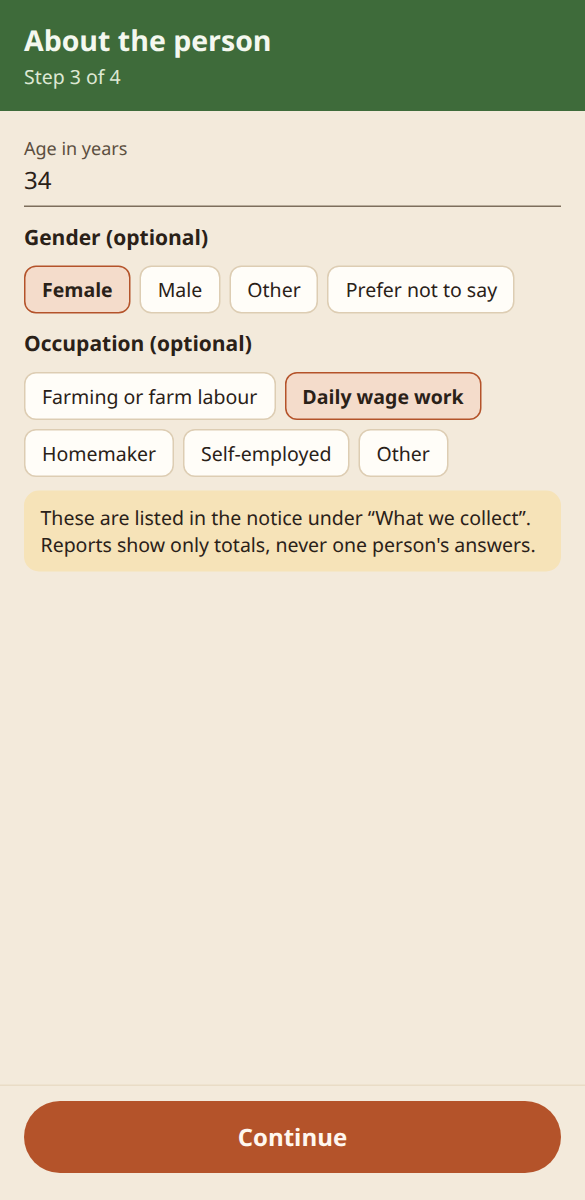
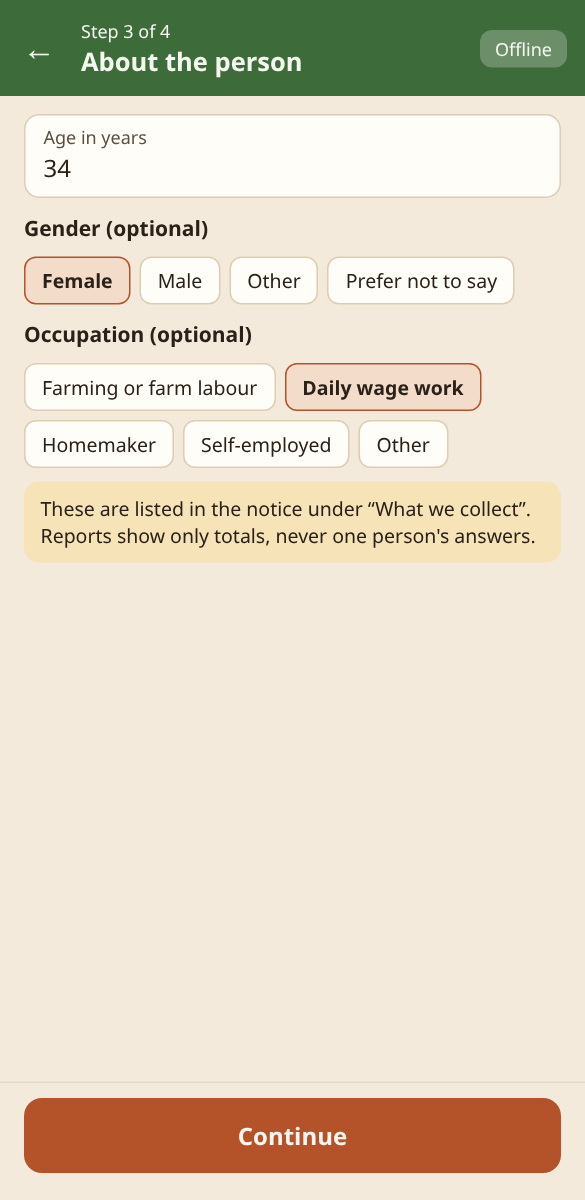
Guide wireframes: catch up with the field app (app bar, Home, receipt, add-a-use wording) and add missing screens
- App bar as StepBar draws it (back arrow, subtitle above title, Offline/Synced chip); outlined inputs; 12px buttons.
- Home: programme above the greeting, sync box in the header; Find's new subtitle.
- Receipt: Refused row, how to withdraw, SMS hint. Parent/guardian: plain after-Save line, guardian ID photo.
- Withdraw and journeys: Other requests as the app lists them; beneficiary IDs in the AC-XXXXXXXX format.
- Journey 5: status chips and 'Already agreed — not asked again' as in the app; the person card; Send code panel.
- New: m1-sign-in, m2-set-pin, m3-unlock, d1-who-guardian, a6-notice-phone-voice, k1-find, k2-sync-issues.

Claude-Session: https://claude.ai/code/session_017Z4JUt4pZ6ieTbEzXJ7HAA

diff --git a/tools/guide_wireframes.py b/tools/guide_wireframes.py
@@ -17,8 +17,15 @@ CSS = """
 *{box-sizing:border-box}
 body{margin:0;font-family:'Noto Sans','Noto Sans Devanagari',sans-serif;color:#2A2118;background:#F3EADB}
 .phone{width:390px;height:800px;position:relative;overflow:hidden;background:#F3EADB}
-.bar{background:#3E6B3A;color:#F4F8EF;padding:14px 16px}.bar h1{margin:0;font-size:19px;font-weight:600}
-.bar p{margin:2px 0 0;font-size:13px;color:#DDE8D3}
+.bar{background:#3E6B3A;color:#F4F8EF;height:64px;padding:0 12px 0 6px;display:flex;align-items:center;gap:8px}
+.bar .bk{width:40px;text-align:center;font-size:22px}.bar .tt{flex:1;min-width:0}
+.bar h1{margin:0;font-size:17px;font-weight:600;white-space:nowrap;overflow:hidden;text-overflow:ellipsis}
+.bar p{margin:0;font-size:12px;color:#F4F8EF}
+.bar .chipb{font-size:12px;padding:4px 10px;border-radius:8px;background:rgba(255,255,255,.24)}
+.hero{background:#3E6B3A;color:#F4F8EF;padding:16px 8px 16px 16px}
+.hero .pg{font-size:12px}.hero .hi{font-size:24px;font-weight:600;display:flex;justify-content:space-between;align-items:center}
+.hero .sbox{margin:12px 8px 0 0;padding:12px;border-radius:12px;background:rgba(255,255,255,.14);display:flex;align-items:center;gap:10px}
+.hero .sync{background:#F4F8EF;color:#3E6B3A;border-radius:12px;padding:9px 14px;font-size:14px;font-weight:600;white-space:nowrap}
 .body{padding:12px 16px;display:flex;flex-direction:column;gap:9px}
 .muted{font-size:13px;color:#5C4F40}
 .note{font-size:13px;padding:9px 11px;border-radius:10px;background:#F6E3B8;color:#2A2118}
@@ -29,8 +36,8 @@ body{margin:0;font-family:'Noto Sans','Noto Sans Devanagari',sans-serif;color:#2
 .opt.on{border-color:#B4532A;background:#F9EBE1}
 .dot{width:16px;height:16px;border-radius:8px;border:2px solid #7D6E5C;flex-shrink:0}
 .opt.on .dot{border-color:#B4532A;background:radial-gradient(#B4532A 45%,transparent 50%)}
-.field{display:flex;flex-direction:column;gap:2px;border-bottom:1px solid #7D6E5C;padding:4px 0 6px}
-.field span{font-size:12px;color:#5C4F40}.field b{font-size:16px;font-weight:400}
+.field{display:flex;flex-direction:column;gap:1px;background:#FFFDF8;border:1px solid #DDCDB3;border-radius:10px;padding:6px 12px 8px}
+.field span{font-size:12px;color:#5C4F40}.field b{font-size:16px;font-weight:400;min-height:20px}
 .help{font-size:11.5px;color:#5C4F40}
 .row{display:flex;align-items:center;justify-content:space-between;gap:8px;font-size:14px;font-weight:600}
 .seg{display:flex;border:1px solid #7D6E5C;border-radius:18px;overflow:hidden;font-weight:400}
@@ -41,7 +48,7 @@ body{margin:0;font-family:'Noto Sans','Noto Sans Devanagari',sans-serif;color:#2
 .tile{display:flex;align-items:center;gap:10px;padding:11px 12px;background:#FFFDF8;border:1px solid #E9DCC6;border-radius:12px;font-size:14px}
 .ic{width:22px;height:22px;border-radius:6px;background:#DDE8D3;color:#3E6B3A;display:flex;align-items:center;justify-content:center;font-size:13px;font-weight:700;flex-shrink:0}
 .st{margin-left:auto;font-size:12px;padding:2px 9px;border-radius:10px;background:#EADFCB;color:#5C4F40;white-space:nowrap}
-.st.ok{background:#DDE8D3;color:#3E6B3A}.st.bad{background:#F4D6CF;color:#9E2F24}
+.st.ok{background:#DDE8D3;color:#3E6B3A}.st.warn{background:#F6E3B8;color:#9A6A10}.st.bad{background:#F4D6CF;color:#9E2F24}
 .grp{border:1.5px solid #B4532A;border-radius:14px;padding:10px;display:flex;flex-direction:column;gap:8px}
 .grp.done{border-color:#3E6B3A}
 .p{display:flex;align-items:center;gap:10px;padding:9px 12px;background:#FFFDF8;border:1px solid #E9DCC6;border-radius:12px}
@@ -53,26 +60,45 @@ body{margin:0;font-family:'Noto Sans','Noto Sans Devanagari',sans-serif;color:#2
 .play{width:44px;height:44px;border-radius:22px;background:#3E6B3A;color:#F4F8EF;display:flex;align-items:center;justify-content:center;flex-shrink:0;font-size:18px}
 .track{height:4px;background:#3E6B3A;border-radius:2px;margin-top:6px}
 .ai{font-size:12px;font-weight:600;color:#3E6B3A}
-.two{display:flex;gap:8px}.two span{flex:1;text-align:center;font-size:14px;padding:8px;border:1px solid #7D6E5C;border-radius:20px}
+.two{display:flex;gap:8px}.two span{flex:1;text-align:center;font-size:15px;font-weight:600;padding:11px 8px;border:1.5px solid #B4532A;color:#B4532A;border-radius:12px}
+.two span.on{background:#B4532A;color:#FFF7EF}.two.off span{border-color:#DDCDB3;color:#7D6E5C}
 .check{display:flex;gap:10px;align-items:flex-start;padding:10px 12px;background:#FFFDF8;border:1px solid #E9DCC6;border-radius:12px;font-size:13.5px}
 .box{width:18px;height:18px;border-radius:4px;border:2px solid #7D6E5C;flex-shrink:0;margin-top:1px}
 .box.on{background:#3E6B3A;border-color:#3E6B3A}
 .code{font-family:monospace;font-size:28px;letter-spacing:3px;text-align:center}
-.otp{font-size:22px;letter-spacing:8px;text-align:center;border-bottom:1px solid #7D6E5C;padding:4px}
-.out{text-align:center;font-size:14px;padding:9px;border:1px solid #7D6E5C;border-radius:20px}
+.otp{font-size:22px;letter-spacing:8px;text-align:center;background:#FFFDF8;border:1px solid #DDCDB3;border-radius:10px;padding:6px}
+.out{text-align:center;font-size:15px;font-weight:600;padding:11px;border:1.5px solid #B4532A;color:#B4532A;border-radius:12px}
 .link{font-size:13px;color:#3E6B3A;font-weight:600;text-decoration:underline}
 .foot{position:absolute;left:0;right:0;bottom:0;padding:10px 16px 18px;background:#F3EADB;border-top:1px solid #E9DCC6;display:flex;flex-direction:column;gap:6px}
 .miss{font-size:13px;color:#9E2F24;text-align:center}
-.cta{text-align:center;font-size:16px;font-weight:600;padding:13px;border-radius:24px;background:#B4532A;color:#FFF7EF}
+.cta{text-align:center;font-size:16px;font-weight:600;padding:14px;border-radius:12px;background:#B4532A;color:#FFF7EF}
 .cta.off{background:#DDCDB3;color:#7D6E5C}
-.sec{text-align:center;font-size:15px;padding:11px;border:1px solid #7D6E5C;border-radius:24px}
+.sec{text-align:center;font-size:16px;font-weight:600;padding:12px;border:1.5px solid #B4532A;color:#B4532A;border-radius:12px}
+.fill{text-align:center;font-size:15px;font-weight:600;padding:11px;border-radius:12px;background:#B4532A;color:#FFF7EF}
+.dlg{position:absolute;left:24px;right:24px;top:220px;background:#FFFDF8;border-radius:20px;padding:20px;display:flex;flex-direction:column;gap:12px;box-shadow:0 8px 30px rgba(0,0,0,.25)}
+.dlg .h1{font-size:19px;font-weight:600}
+.dim{opacity:.35}
+.toast{position:absolute;left:20px;right:20px;bottom:110px;background:#2A2118;color:#FFF7EF;border-radius:10px;padding:12px 14px;font-size:14px}
+.sheet{position:absolute;left:0;right:0;bottom:0;background:#FFFDF8;border-radius:18px 18px 0 0;padding:16px;box-shadow:0 -6px 24px rgba(0,0,0,.18);display:flex;flex-direction:column;gap:12px}
+.pin{display:flex;justify-content:center;gap:16px}.pin span{width:16px;height:16px;border-radius:8px;border:2px solid #B4532A}.pin span.on{background:#B4532A}
+.keys{display:grid;grid-template-columns:repeat(3,1fr);row-gap:10px;text-align:center;font-size:26px;padding:0 24px}
 .big{display:flex;flex-direction:column;align-items:center;gap:4px;padding:6px 0}
 .tick{width:56px;height:56px;border-radius:28px;background:#DDE8D3;color:#3E6B3A;display:flex;align-items:center;justify-content:center;font-size:28px}
 """
 
 
-def bar(title, sub=""):
-    return f'<div class="bar"><h1>{title}</h1>{f"<p>{sub}</p>" if sub else ""}</div>'
+def bar(title, sub="", back=True, chip="Offline"):
+    """The app bar (StepBar): back arrow, subtitle above the title, and the Offline / Synced chip."""
+    return (f'<div class="bar"><span class="bk">{"←" if back else ""}</span><div class="tt">{f"<p>{sub}</p>" if sub else ""}'
+            f'<h1>{title}</h1></div>{f"<span class=chipb>{chip}</span>" if chip else ""}</div>')
+
+
+def home_head(n=3):
+    """Home's own header: programme, greeting, and the sync box."""
+    sub = "Sync when you have data" if n else "Everything is signed on the server"
+    return (f'<div class="hero"><div class="pg">Village Health Camps</div><div class="hi">Namaste, Ravi<span style="font-size:20px">⋮</span></div>'
+            f'<div class="sbox"><div style="flex:1"><div style="font-weight:600">{n} records on this phone</div>'
+            f'<div style="font-size:12px">{sub}</div></div><span class="sync">⟳ Sync</span></div></div>')
 
 
 def foot(label, missing="", off=False, second=""):
@@ -114,13 +140,12 @@ def purpose(title, desc, on=None):
 
 
 SCREENS = {
-    "home": bar("Namaste, Ravi", "Village Health Camps") + """<div class="body">
-<div class="card"><div class="row">3 records on this phone<span class="st">Sync</span></div><div class="muted">Sync when you have data</div></div>
+    "home": home_head() + """<div class="body">
 <div class="muted">Programme</div><div class="card" style="flex-direction:row;justify-content:space-between"><span>Village Health Camps</span><span style="color:#B4532A;font-size:13px">Change</span></div>
 <div class="tile"><span class="ic">+</span><div><div class="t">Take new consent</div><div class="d">Self, assisted or guardian</div></div></div>
 <div class="tile"><span class="ic">×</span><div><div class="t">Stop a use or leave</div><div class="d">In person, slip or letter</div></div></div>
-<div class="tile"><span class="ic">↺</span><div><div class="t">Add a use or rejoin</div><div class="d">A new use, a change of mind, or rejoining</div></div></div>
-<div class="tile"><span class="ic">⌕</span><div><div class="t">Find beneficiary</div><div class="d">See consent status offline</div></div></div>
+<div class="tile"><span class="ic">＋</span><div><div class="t">Add a use or rejoin</div><div class="d">A new use, a change of mind, or rejoining</div></div></div>
+<div class="tile"><span class="ic">⌕</span><div><div class="t">Find beneficiary</div><div class="d">Status offline; stop or add a use</div></div></div>
 </div>""",
     "a1-who": bar("Who is giving consent?", "Step 1 of 3") + f"""<div class="body">{who("self")}
 <div class="field"><span>Name</span><b>Sunita Devi (sample)</b></div>
@@ -141,13 +166,14 @@ SCREENS = {
 <div class="card"><b>Sunita Devi (sample) · English</b><div class="muted">Agreed: Health screening, Follow-up calls</div><div class="muted">Refused: Photos and stories, Anonymised research</div></div>
 <div class="note">After Save, you can send a code to their phone from the server. They read it out to confirm.</div>
 <div class="muted">No witness: they read the notice themselves.</div>{ATTEST}</div>""" + foot("Save"),
-    "a4-receipt-code": bar("Saved on this phone", "DEMO") + """<div class="body">
+    "a4-receipt-code": bar("Saved on this phone", "DEMO", back=False) + """<div class="body">
 <div class="big"><div class="tick">✓</div><div class="t" style="font-size:20px">Saved on this phone</div><div class="muted">Signed and chained when this phone syncs</div></div>
 <div class="card" style="border:1.5px solid #D9A285"><div class="muted" style="text-align:center">Consent code — write it on their slip</div><div class="code">AN-7K2Q9C</div></div>
-<div class="card"><div class="row" style="font-weight:400"><span class="d">Sunita Devi (sample)</span><span>English</span></div><div class="row" style="font-weight:400"><span class="d">Granted</span><span>Health screening, Follow-up calls</span></div><div class="row" style="font-weight:400"><span class="d">Verified by</span><span>Code from the server (below)</span></div></div>
+<div class="card"><div class="row" style="font-weight:400"><span class="d">Sunita Devi (sample)</span><span>English</span></div><div class="row" style="font-weight:400"><span class="d">Granted</span><span>Health screening, Follow-up calls</span></div><div class="row" style="font-weight:400"><span class="d">Refused</span><span>Photos and stories, Anonymised research</span></div><div class="row" style="font-weight:400"><span class="d">Verified by</span><span>Code from the server (below)</span></div></div>
 <div class="grp done"><div class="t">Confirm with a code to their phone</div><div class="muted">The code is sent by the server, not from this phone. They read it out to you.</div>
 <div class="muted">Code sent to 9000012XXX. Ask them to read it out.</div><div class="otp">4 8 1 _ _ _</div><div class="link">Send a new code</div></div>
-<div class="out">Send receipt by SMS</div></div>""" + foot("Done — next beneficiary"),
+<div class="card">Tell them: SMS STOP with this code, a missed call, or tell any worker to withdraw.</div>
+<div class="out">✉ Send receipt by SMS</div><div class="muted" style="text-align:center">Opens your SMS app with their receipt. You tap Send.</div></div>""" + foot("Done — next beneficiary"),
     "a5-confirm-offline": bar("Confirm and save", "Step 3 of 3") + f"""<div class="body">
 <div class="card"><b>Sunita Devi (sample) · English</b><div class="muted">Agreed: Health screening, Follow-up calls</div></div>
 <div class="grp"><div class="row">Check their phone · both needed<span class="st bad">0 of 1</span></div>
@@ -193,7 +219,7 @@ SCREENS = {
 <div class="muted">Who is consenting?</div><div class="chips"><span class="chip on">Mother</span><span class="chip">Father</span><span class="chip">Other guardian</span></div>
 <div class="field"><span>Parent's name</span><b>Meena Kumari (sample)</b></div>
 <div class="field"><span>Parent's mobile</span><b>90000 67890</b></div>
-<div class="note">After Save, a code is sent to this number from the server. They read it out to confirm.</div>
+<div class="muted">After Save, a code is sent to this number from the server. They read it out to confirm.</div>
 <div class="tile"><span class="ic">📷</span>Photo of the parent's ID (optional)<span class="st">Tap to capture</span></div></div>""" + foot("Continue"),
     "c3-notice-save": bar("Notice and choices", "Step 3 of 3") + f"""<div class="body">{PLAYER}
 <div class="h">Choose for each use</div>
@@ -218,10 +244,11 @@ SCREENS = {
 <div class="muted">Relation</div><div class="chips"><span class="chip">Parent</span><span class="chip on">Brother / sister</span><span class="chip">Spouse</span><span class="chip">Other</span></div>
 <div class="field"><span>Guardian's name</span><b>Suresh Kumar (sample)</b></div>
 <div class="field"><span>Guardian's mobile</span><b>90000 24680</b></div>
-<div class="note">After Save, a code is sent to this number from the server. They read it out to confirm.</div></div>""" + foot("Continue"),
+<div class="muted">After Save, a code is sent to this number from the server. They read it out to confirm.</div>
+<div class="tile"><span class="ic">📷</span>Photo of the guardian's ID (optional)<span class="st">Tap to capture</span></div></div>""" + foot("Continue"),
     "d3-no-order": bar("Guardian's details", "Step 2 of 3") + """<div class="body">
 <div class="muted">Guardian appointed by</div><div class="chips"><span class="chip">Local Level Committee</span><span class="chip">Court</span><span class="chip">Other authority</span><span class="chip on">No order yet</span></div>
-<div class="card" style="border:2px solid #B4532A;gap:8px"><div class="t" style="color:#9E2F24;font-size:17px">Consent can't be taken yet</div>
+<div class="card" style="border:1.5px solid #B4532A;gap:8px"><div class="t" style="color:#9E2F24;font-size:17px">Consent can't be taken yet</div>
 <div>For an adult who can't decide alone, only a guardian appointed by a court or the Local Level Committee can give consent.</div>
 <div>The family can apply to the Local Level Committee (National Trust) or a court. The person can still be helped today; their data just isn't recorded under consent.</div></div>
 <div class="muted">Nothing is saved. Your coordinator gets a note to follow up, without the person's details.</div></div>""" + foot("Inform coordinator", second="Back"),
@@ -231,18 +258,19 @@ SCREENS = {
 <div class="h">Occupation (optional)</div><div class="chips"><span class="chip">Farming or farm labour</span><span class="chip on">Daily wage work</span><span class="chip">Homemaker</span><span class="chip">Self-employed</span><span class="chip">Other</span></div>
 <div class="note">These are listed in the notice under “What we collect”. Reports show only totals, never one person's answers.</div></div>""" + foot("Continue"),
     "f1-withdraw": bar("Stop a use or leave", "Withdrawal or request") + """<div class="body">
-<div class="field"><span>Receipt code, name, ID or phone</span><b>AN-7K2Q9C</b></div>
-<div class="card" style="border-color:#B4532A"><b>Sunita Devi (sample)</b><div class="muted">AC-4XK2M9PQ · AN-7K2Q9C</div></div>
+<div class="field"><span>⌕ Receipt code, name, ID or phone</span><b>AN-7K2Q9C</b></div>
+<div class="card" style="border-color:#B4532A"><b>Sunita Devi (sample)</b><div class="muted">AC-6TR2W3HJ · AN-7K2Q9C</div></div>
 <div class="row" style="font-weight:400"><span class="muted">Switch off what they no longer agree to</span><span class="link">Stop all</span></div>
 <div class="p"><div><div class="t">Follow-up calls</div><div class="d" style="color:#9E2F24">Will stop</div></div><span class="sw"></span></div>
 <div class="p"><div><div class="t">Photos and stories</div><div class="d">On</div></div><span class="sw on"></span></div>
 <div class="p req"><div><div class="t">🔒 Health screening</div><div class="d">Needed for the programme. To stop it, they leave the programme.</div></div></div>
 <div class="out" style="color:#9E2F24;border-color:#9E2F24">⎋ Leave the programme</div>
-<div class="muted">Other requests: See or correct my data · Delete my data · Complaint</div>
-<div class="check"><span class="box on"></span><div>They gave a paper slip or letter</div></div>
-<div class="field"><span>Paper slip number (optional)</span><b>SLIP-0042</b></div></div>""" + foot("Stop 1 use for Sunita Devi (sample)"),
+<div class="muted" style="border-top:1px solid #DDCDB3;padding-top:8px">Other requests</div>
+<div class="opt"><span class="dot"></span>See or correct my data</div><div class="opt"><span class="dot"></span>Delete my data</div>
+<div class="opt"><span class="dot"></span>Complaint</div>
+<div class="check"><span class="box on"></span><div>They gave a paper slip or letter</div></div></div>""" + foot("Stop 1 use for Sunita Devi (sample)"),
     "f2-leave": bar("Stop a use or leave", "Withdrawal or request") + """<div class="body" style="opacity:.35">
-<div class="card"><b>Sunita Devi (sample)</b><div class="muted">AC-4XK2M9PQ · AN-7K2Q9C</div></div>
+<div class="card"><b>Sunita Devi (sample)</b><div class="muted">AC-6TR2W3HJ · AN-7K2Q9C</div></div>
 <div class="p"><div><div class="t">Follow-up calls</div></div><span class="sw on"></span></div></div>
 <div style="position:absolute;left:24px;right:24px;top:230px;background:#FFFDF8;border-radius:20px;padding:20px;display:flex;flex-direction:column;gap:12px;box-shadow:0 8px 30px rgba(0,0,0,.25)">
 <div style="font-size:19px;font-weight:600">Leave the programme?</div>
@@ -257,6 +285,66 @@ SCREENS = {
 <div class="muted">It takes effect on this phone now and reaches the office on sync.</div>
 <div class="row" style="justify-content:flex-end"><span class="link" style="text-decoration:none">Send by SMS</span><span class="cta" style="padding:9px 16px;font-size:14px">OK</span></div></div>""",
 }
+
+KEYS = ('<div class="keys">' + "".join(f"<span>{k}</span>" for k in "123456789") + '<span></span><span>0</span><span>⌫</span></div>')
+
+
+def status(title, st):
+    tone = {"granted": "ok", "withdrawn": "bad", "refused": "warn"}.get(st, "")
+    return f'<div class="row" style="font-weight:400;font-size:13px">{title}<span class="st {tone}">{st}</span></div>'
+
+
+NEW_SCREENS = {
+    "m1-sign-in": """<div class="body" style="padding:48px 24px;gap:14px">
+<div style="display:flex;align-items:center;gap:12px"><div style="width:48px;height:48px;border-radius:14px;background:#3E6B3A;color:#F4F8EF;display:flex;align-items:center;justify-content:center;font-size:22px">🛡</div><div style="font-size:24px;font-weight:600">Anumati Collect</div></div>
+<div class="seg" style="align-self:flex-start"><span class="on">English</span><span>हिन्दी</span></div>
+<div class="field" style="margin-top:12px"><span>Organisation address</span><b>sample-ngo.frappe.cloud</b></div>
+<div class="field"><span>User ID</span><b>ravi.sample</b></div>
+<div class="field"><span>Password</span><b style="display:flex;justify-content:space-between">••••••••<span>👁</span></b></div>
+<div class="note bad">Could not sign in. Check your user ID and password.</div>
+<div class="cta">Sign in</div></div>""",
+    "m2-set-pin": """<div class="body" style="padding:56px 24px 0;align-items:center;gap:12px;text-align:center">
+<div style="font-size:40px;color:#3E6B3A">🔒</div><div style="font-size:20px;font-weight:600">Choose a 4-digit PIN for this app</div>
+<div class="muted">The app locks when you leave it for 5 minutes. Names and evidence stay protected.</div>
+<div class="pin" style="margin-top:12px"><span class="on"></span><span class="on"></span><span></span><span></span></div></div>
+<div style="position:absolute;left:0;right:0;bottom:60px">""" + KEYS + "</div>",
+    "m3-unlock": """<div class="body" style="padding:56px 24px 0;align-items:center;gap:12px;text-align:center">
+<div style="font-size:40px;color:#3E6B3A">🔒</div><div style="font-size:20px;font-weight:600">Enter your PIN</div>
+<div class="pin" style="margin-top:12px"><span></span><span></span><span></span><span></span></div>
+<div class="note bad">Wrong PIN. 4 tries left.</div></div>
+<div style="position:absolute;left:0;right:0;bottom:24px;display:flex;flex-direction:column;gap:18px">""" + KEYS + """
+<div class="link" style="text-align:center;text-decoration:none;color:#B4532A">Forgot PIN? Sign out</div></div>""",
+    "d1-who-guardian": bar("Who is giving consent?", "Step 1 of 3") + f"""<div class="body">{who("guardian")}
+<div class="field"><span>Person's name</span><b>Ramesh Kumar (sample)</b></div>{lang()}
+<div class="note">The guardian's details, their appointment order and their mobile are asked on the next screen.</div>
+<div class="muted">The beneficiary ID is created automatically.</div></div>""" + foot("Continue"),
+    "a6-notice-phone-voice": bar("Notice and choices", "Step 2 of 3") + f"""<div class="body">
+<div class="player" style="flex-direction:column;align-items:stretch"><div style="display:flex;gap:10px;align-items:center"><div class="play">🔊</div>
+<div><div class="t">Listen to the notice</div><div class="d">Phone voice · the notice is read aloud by this phone</div></div></div>
+<div class="track" style="width:35%"></div></div>
+<div class="t" style="font-size:15px">We screen your health and refer you to a doctor if needed.</div>
+<div class="card" style="flex-direction:row;justify-content:space-between"><span class="t">Read the full notice (data, rights, how to withdraw)</span><span>▴</span></div>
+<div class="muted" style="padding:0 4px"><b>Why we need this.</b> Health screening. Blood pressure, sugar and anaemia checks. Follow-up calls…</div>
+<div class="out">✓✓ They have read the whole notice</div>
+<div class="h">Choose for each use</div>
+{purpose("Health screening", "Blood pressure, sugar and anaemia checks")}
+<div style="opacity:.5;display:flex;flex-direction:column;gap:9px">{purpose("Follow-up calls", "A health worker calls after the camp", False)}
+{purpose("Photos and stories", "Camp photos, never with your name", False)}</div>
+<div class="two off"><span>Yes to all</span><span>No to all</span></div>
+<div class="note">Choices unlock when the whole notice has been heard or read</div></div>""" + foot("Continue", off=True),
+    "k1-find": bar("Find beneficiary", chip="Synced") + """<div class="body">
+<div class="field"><span>⌕ Search by name, ID, code or phone</span><b>90000 12345</b></div>
+<div class="card"><b>Sunita Devi (sample)</b><div class="muted">AC-6TR2W3HJ · AN-7K2Q9C · English</div><div class="muted">Their number</div>""" + status("Health screening", "granted") + status("Follow-up calls", "withdrawn") + status("Photos and stories", "refused") + status("Anonymised research", "not asked") + """</div>
+<div class="card"><b>Pooja (sample)</b><div class="muted">AC-5PQ3RZ2A · AN-M4D2XC · English</div><div class="muted">Guardian's number (Mother)</div>""" + status("Health screening", "granted") + status("Follow-up calls", "granted") + status("Photos and stories", "not asked") + status("Anonymised research", "not asked") + """</div></div>""",
+    "k2-sync-issues": home_head(2) + """<div class="body">
+<div class="card" style="background:#F4D6CF;border-color:#9E2F24;flex-direction:row;gap:10px;align-items:center"><span style="color:#9E2F24;font-size:18px">ⓘ</span>1 records could not be saved on the server. Open to see why.</div>
+<div class="muted">Programme</div><div class="card" style="flex-direction:row;justify-content:space-between"><span>Village Health Camps</span><span style="color:#B4532A;font-size:13px">Change</span></div></div>
+<div style="position:absolute;left:0;right:0;top:300px;bottom:0;background:#F3EADB;box-shadow:0 -6px 24px rgba(0,0,0,.18);border-radius:18px 18px 0 0;overflow:hidden">""" + bar("Records that need attention") + """<div class="body">
+<div class="card"><b>consent · AC-2LK7T5WE · AN-R8Z6PC</b><div class="muted">2026-10-14 16:42:05</div>
+<div class="note bad">This programme's notice was withdrawn. Ask the office to publish it again.</div>
+<div class="row" style="justify-content:flex-start;gap:20px;color:#B4532A"><span>Try again</span><span>Discard</span></div></div></div></div>""",
+}
+SCREENS.update(NEW_SCREENS)
 
 
 def main():

diff --git a/tools/guide_journeys.py b/tools/guide_journeys.py
@@ -78,8 +78,9 @@ def locked(title):
 
 
 LEAVE = '<div class="out" style="color:#9E2F24;border-color:#9E2F24">⎋ Leave the programme</div>'
-OTHER = '<div class="muted">Other requests: See or correct my data · Delete my data · Complaint</div>'
-HOME = bar("Namaste, Ravi", "Village Health Camps") + '<div class="body">' + "".join([
+OTHER = ('<div class="muted" style="border-top:1px solid #DDCDB3;padding-top:8px">Other requests</div>'
+         + "".join(f'<div class="opt"><span class="dot"></span>{t}</div>' for t in ("See or correct my data", "Delete my data", "Complaint")))
+HOME = g.home_head() + '<div class="body">' + "".join([
     tile("+", "Take new consent", "Self, assisted or guardian"),
     tile("×", "Stop a use or leave", "In person, slip or letter", hl=True),
     tile("＋", "Add a use or rejoin", "A new use, a change of mind, or rejoining"),
@@ -123,16 +124,16 @@ STRIPS.append(strip(
         step("<b>1.</b> Home → <b>Stop a use or leave</b>.", phone(HOME)),
         step("<b>2.</b> Type the phone number. Everyone on that number appears, with <b>whose number</b> matched. Tap Radha.",
              phone(SCR + '<div class="body"><div class="field"><span>Receipt code, name, ID or phone</span><b>55500 01234</b></div>'
-                   + person("Radha S. (sample)", "VHC-4XK2M9 · AN-7K2Q9C", "Their number")
-                   + '<div class="card"><b>Meena S. (sample, child)</b><div class="muted">VHC-8PQ3R1 · AN-M4D2X7</div><div class="muted" style="color:#3E6B3A">Guardian\'s number (Mother)</div></div>'
-                   + '<div class="card"><b>Raju S. (sample, child)</b><div class="muted">VHC-2LK9T5 · AN-R8Z6P3</div><div class="muted" style="color:#3E6B3A">Guardian\'s number (Mother)</div></div></div>')),
+                   + person("Radha S. (sample)", "AC-4XK2M7PQ · AN-7K2Q9C", "Their number")
+                   + '<div class="card"><b>Meena S. (sample, child)</b><div class="muted">AC-5PQ3RZ2A · AN-M4D2X7</div><div class="muted" style="color:#3E6B3A">Guardian\'s number (Mother)</div></div>'
+                   + '<div class="card"><b>Raju S. (sample, child)</b><div class="muted">AC-2LK7T5WE · AN-R8Z6P3</div><div class="muted" style="color:#3E6B3A">Guardian\'s number (Mother)</div></div></div>')),
         step("<b>3.</b> Her uses that are on are switches. Switch off <b>Follow-up calls</b>. The essential use is locked. The slip box is at the bottom. The button says exactly what will happen.",
-             phone(SCR + '<div class="body">' + person("Radha S. (sample)", "VHC-4XK2M9 · AN-7K2Q9C", "Their number")
+             phone(SCR + '<div class="body">' + person("Radha S. (sample)", "AC-4XK2M7PQ · AN-7K2Q9C", "Their number")
                    + '<div class="row" style="font-weight:400"><span class="muted">Switch off what they no longer agree to</span><span class="link">Stop all</span></div>'
                    + sw("Follow-up calls", "Will stop", False, red=True) + sw("Photos and stories", "On", True)
                    + locked("Health screening") + LEAVE + OTHER + SLIP + "</div>" + foot("Stop 1 use for Radha S. (sample)"))),
         step("<b>4.</b> <b>Withdrawal noted</b>: what stopped and a <b>withdrawal code</b> for her slip. <b>Send by SMS</b> with the code, in her language (to the parent, for a child). On sync: signed, consent check says no, closed request in the inbox.",
-             phone(SCR + '<div class="body dim">' + person("Radha S. (sample)", "VHC-4XK2M9") + "</div>"
+             phone(SCR + '<div class="body dim">' + person("Radha S. (sample)", "AC-4XK2M7PQ") + "</div>"
                    + dialog("Withdrawal noted", '<div style="font-size:14px">Stopped: Follow-up calls</div>' + code_box("AN-W5K7RD")
                             + '<div class="muted">It takes effect on this phone now and reaches the office on sync.</div>',
                             link("Send by SMS") + cta("OK")))),
@@ -144,23 +145,23 @@ STRIPS.append(strip(
     "Sunita moves away and asks to stop everything, including health screening.",
     [
         step("<b>1.</b> Find Sunita (name, code or phone). Tap <b>Leave the programme</b>.",
-             phone(SCR + '<div class="body">' + person("Sunita D. (sample)", "VHC-6TR2W8 · AN-9QH4LM")
+             phone(SCR + '<div class="body">' + person("Sunita D. (sample)", "AC-6TR2W3HJ · AN-9QH4LM")
                    + sw("Follow-up calls", "On", True) + sw("Photos and stories", "On", True)
                    + locked("Health screening") + '<div class="out hl" style="color:#9E2F24;border-color:#9E2F24">⎋ Leave the programme</div>' + OTHER + "</div>"
                    + foot("Save", off=True))),
         step("<b>2.</b> A warning: every use stops, essential too, and the programme stops serving her. Ravi checks she still wants it.",
-             phone(SCR + '<div class="body dim">' + person("Sunita D. (sample)", "VHC-6TR2W8") + "</div>"
+             phone(SCR + '<div class="body dim">' + person("Sunita D. (sample)", "AC-6TR2W3HJ") + "</div>"
                    + dialog("Leave the programme?", '<div style="font-size:14px">This stops every use of their data in this programme, essential ones too. The programme stops serving them. Do they still want this?</div>',
                             link("Cancel") + cta("Yes, leave")))),
         step("<b>3.</b> Every use now shows <b>Will stop</b>, switches greyed, with a warning. <b>Don't leave</b> undoes it. Save.",
-             phone(SCR + '<div class="body">' + person("Sunita D. (sample)", "VHC-6TR2W8 · AN-9QH4LM")
+             phone(SCR + '<div class="body">' + person("Sunita D. (sample)", "AC-6TR2W3HJ · AN-9QH4LM")
                    + sw_off("Follow-up calls") + sw_off("Photos and stories")
                    + '<div class="p req"><div><div class="t">🔒 Health screening</div><div class="d" style="color:#9E2F24">Will stop</div></div></div>'
                    + '<div class="out" style="color:#9E2F24;border:2px solid #9E2F24">↶ Don\'t leave</div>'
                    + '<div class="note bad">Every use above will stop, and the programme stops serving them.</div>' + "</div>"
                    + '<div class="foot"><div class="cta" style="background:#9E2F24">Leave the programme</div></div>')),
         step("<b>4.</b> Noted, with a withdrawal code for her slip. On sync: every use withdrawn (even ones already off, so an older “yes” from another phone can't undo it); her record shows <b>Relationship ended</b> (retention clock starts); inbox has a closed request “Left the programme”.",
-             phone(SCR + '<div class="body dim">' + person("Sunita D. (sample)", "VHC-6TR2W8") + "</div>"
+             phone(SCR + '<div class="body dim">' + person("Sunita D. (sample)", "AC-6TR2W3HJ") + "</div>"
                    + dialog("Withdrawal noted", '<div style="font-size:14px">They have left the programme.</div>' + code_box("AN-L2X9FT")
                             + '<div class="muted">It takes effect on this phone now and reaches the office on sync.</div>',
                             link("Send by SMS") + cta("OK")))),
@@ -186,7 +187,7 @@ STRIPS.append(strip(
         step("<b>3.</b> Office: the request is already <b>matched by the code</b>, due in 30 days. Staff open it → <b>Record withdrawal</b>.",
              '<div class="desk"><div class="top">Requests › RR-0117</div><div class="pad">'
              '<div class="dbox"><b>Withdrawal by paper slip</b><span class="lbl">Received today · Due in 30 days</span>'
-             '<div><span class="pill blue">Open</span></div><span class="lbl">Beneficiary</span><span>VHC-3MN8Q2 (matched from AN-B7W3KD)</span>'
+             '<div><span class="pill blue">Open</span></div><span class="lbl">Beneficiary</span><span>AC-3MN6Q2LD (matched from AN-B7W3KD)</span>'
              '<span class="lbl">Paper slip number</span><span>SLIP-0042</span></div>'
              '<div class="btn">Record withdrawal</div></div></div>'),
         step("<b>4.</b> A checklist of his optional uses that are on, all ticked. The essential use stops only if he leaves: tick <b>Leave the programme</b>. Withdraw → signed, request closed.",
@@ -205,19 +206,19 @@ STRIPS.append(strip(
     "Radha asks for her data to be deleted. The worker logs it; the office acts on it.",
     [
         step("<b>1.</b> Find Radha → under <b>Other requests</b> pick <b>Delete my data</b>. It explains what happens.",
-             phone(SCR + '<div class="body">' + person("Radha S. (sample)", "VHC-4XK2M9 · AN-7K2Q9C")
+             phone(SCR + '<div class="body">' + person("Radha S. (sample)", "AC-4XK2M7PQ · AN-7K2Q9C")
                    + sw("Follow-up calls", "On", True) + locked("Health screening")
                    + '<div class="muted">Other requests</div><div class="opt"><span class="dot"></span>See or correct my data</div>'
                    '<div class="opt on"><span class="dot"></span><div>Delete my data<div class="d" style="font-weight:400">The office keeps only what the law needs and erases the rest. This may stop the programme\'s services to them.</div></div></div>'
                    '<div class="opt"><span class="dot"></span>Complaint</div></div>' + foot("Save request"))),
         step("<b>2.</b> Office inbox: <b>Erasure request</b>, matched to Radha, due in 30 days; staff are alerted, and reminded 3 days before.",
              '<div class="desk"><div class="top">Requests</div><div class="pad">'
-             '<div class="dbox"><b>Erasure request by field worker</b><span class="lbl">VHC-4XK2M9 · due in 30 days</span><div><span class="pill blue">Open</span></div></div>'
-             '<div class="dbox"><b>Data access request by field worker</b><span class="lbl">VHC-6TR2W8 · due in 12 days</span><div><span class="pill blue">Open</span></div></div>'
+             '<div class="dbox"><b>Erasure request by field worker</b><span class="lbl">AC-4XK2M7PQ · due in 30 days</span><div><span class="pill blue">Open</span></div></div>'
+             '<div class="dbox"><b>Data access request by field worker</b><span class="lbl">AC-6TR2W3HJ · due in 12 days</span><div><span class="pill blue">Open</span></div></div>'
              '<div class="dbox"><b>Grievance by SMS</b><span class="lbl">Not matched · overdue</span><div><span class="pill red">Overdue</span></div></div></div></div>'),
         step("<b>3.</b> Staff act (erase what the law allows, tell partners), write the resolution, close. Automating erasure is Phase 2.",
              '<div class="desk"><div class="top">Requests › RR-0121</div><div class="pad">'
-             '<div class="dbox"><b>Erasure request by field worker</b><span class="lbl">Beneficiary</span><span>VHC-4XK2M9</span>'
+             '<div class="dbox"><b>Erasure request by field worker</b><span class="lbl">Beneficiary</span><span>AC-4XK2M7PQ</span>'
              '<span class="lbl">Resolution</span><span>Erased profile and photos; consent records kept as the law requires. Told partner clinic.</span>'
              '<div><span class="pill">Closed</span></div></div></div></div>'),
     ]))
@@ -245,8 +246,8 @@ def ask(kind, title, desc):
 
 
 def agreed(*names):
-    rows = "".join(f'<div class="row" style="font-weight:400">{n}<span class="st ok">Agreed</span></div>' for n in names)
-    return f'<div class="muted">Already agreed, not asked again</div>{rows}'
+    rows = "".join(f'<div class="row" style="font-weight:400;font-size:13px">{n}<span class="st ok">granted</span></div>' for n in names)
+    return f'<div class="muted">Already agreed — not asked again</div>{rows}'
 
 
 STRIPS.append(strip(
@@ -254,27 +255,27 @@ STRIPS.append(strip(
     "Sunita, Village Health Camps. Home → Add a use or rejoin → pick her (or Find → tap her). Only what's new or changed is asked.",
     [
         step("<b>From Find:</b> tapping a person offers both actions. (Home → <b>Add a use or rejoin</b> also works.)",
-             phone(bar("Find beneficiary") + '<div class="body dim"><div class="field"><span>Search by name, ID, code or phone</span><b>sunita</b></div>'
-                   + '<div class="card"><b>Sunita D. (sample)</b><div class="muted">VHC-6TR2W8 · AN-9QH4LM</div>'
-                   + '<div class="row" style="font-weight:400">Follow-up calls<span class="st bad">Withdrawn</span></div></div></div>' + SHEET)),
+             phone(bar("Find beneficiary") + '<div class="body dim"><div class="field"><span>⌕ Search by name, ID, code or phone</span><b>sunita</b></div>'
+                   + '<div class="card"><b>Sunita D. (sample)</b><div class="muted">AC-6TR2W3HJ · AN-9QH4LM</div>'
+                   + '<div class="row" style="font-weight:400">Follow-up calls<span class="st bad">withdrawn</span></div></div></div>' + SHEET)),
         step("<b>Case 1, a new use is added.</b> The NGO added “Health tips by SMS” (notice v2). Photos, which she refused at first, is asked again. With 2+ uses: <b>Yes to all / No to all</b> once each part is read.",
-             phone(AP("Later visit · Sunita D. (sample)") + '<div class="body">' + agreed("Health screening", "Follow-up calls") + ALL
+             phone(AP("Later visit · Sunita D. (sample)") + '<div class="body">' + '<div class="card"><b>Sunita D. (sample)</b><div class="muted">AC-6TR2W3HJ · AN-9QH4LM · English</div></div>' + agreed("Health screening", "Follow-up calls") + ALL
                    + ask("New use", "Health tips by SMS", "A weekly health tip by SMS.")
                    + ask("Ask again", "Photos and stories", "Photos of the camp for our reports, never with your name.")
                    + '<div class="muted">How this is confirmed: Code from the server, after Save.</div></div>' + foot("Save"))),
         step("<b>Case 2, she changed her mind.</b> She stopped follow-up calls in May and wants them back.",
-             phone(AP("Later visit · Sunita D. (sample)") + '<div class="body">' + agreed("Health screening", "Photos and stories", "Health tips by SMS")
+             phone(AP("Later visit · Sunita D. (sample)") + '<div class="body">' + '<div class="card"><b>Sunita D. (sample)</b><div class="muted">AC-6TR2W3HJ · AN-9QH4LM · English</div></div>' + agreed("Health screening", "Photos and stories", "Health tips by SMS")
                    + ask("Ask again", "Follow-up calls", "A health worker calls to check on you after the camp.")
                    + '<div class="muted">How this is confirmed: Code from the server, after Save.</div></div>' + foot("Save"))),
         step("<b>Case 3, she left and wants to rejoin.</b> Health screening is a rejoin. The other uses wait until she says Yes to rejoining; if she says No, there is nothing to save.",
-             phone(AP("Later visit · Sunita D. (sample)") + '<div class="body"><div class="muted">Already agreed, not asked again: none</div>'
+             phone(AP("Later visit · Sunita D. (sample)") + '<div class="body">' + '<div class="card"><b>Sunita D. (sample)</b><div class="muted">AC-6TR2W3HJ · AN-9QH4LM · English</div></div>' + '<div class="muted">Already agreed — not asked again</div>'
                    + ask("Rejoin the programme", "Health screening", "Blood pressure, sugar and anaemia checks.")
                    + waiting("Ask again", "Follow-up calls") + waiting("Ask again", "Photos and stories")
                    + "</div>" + foot("Save", off=True))),
         step("<b>After Save</b> (any case): a new receipt code for the slip; the server texts a code to confirm. On sync the choices apply; in case 3 <b>Relationship ended</b> is cleared.",
              phone(AP("Later visit · Sunita D. (sample)") + '<div class="body dim">' + agreed("Health screening") + "</div>"
                    + dialog("Saved on this phone", '<div class="muted">Consent code — write it on their slip</div><div class="code">AN-P3V8NQ</div>'
-                            '<div class="out">Send code</div>', cta("OK")))),
+                            '<div class="card" style="border-color:#3E6B3A"><b>Confirm with a code to their phone</b><div class="muted">The code is sent by the server, not from this phone. They read it out to you.</div><div class="fill">✉ Send code</div></div>', link("OK")))),
     ]))
 
 
